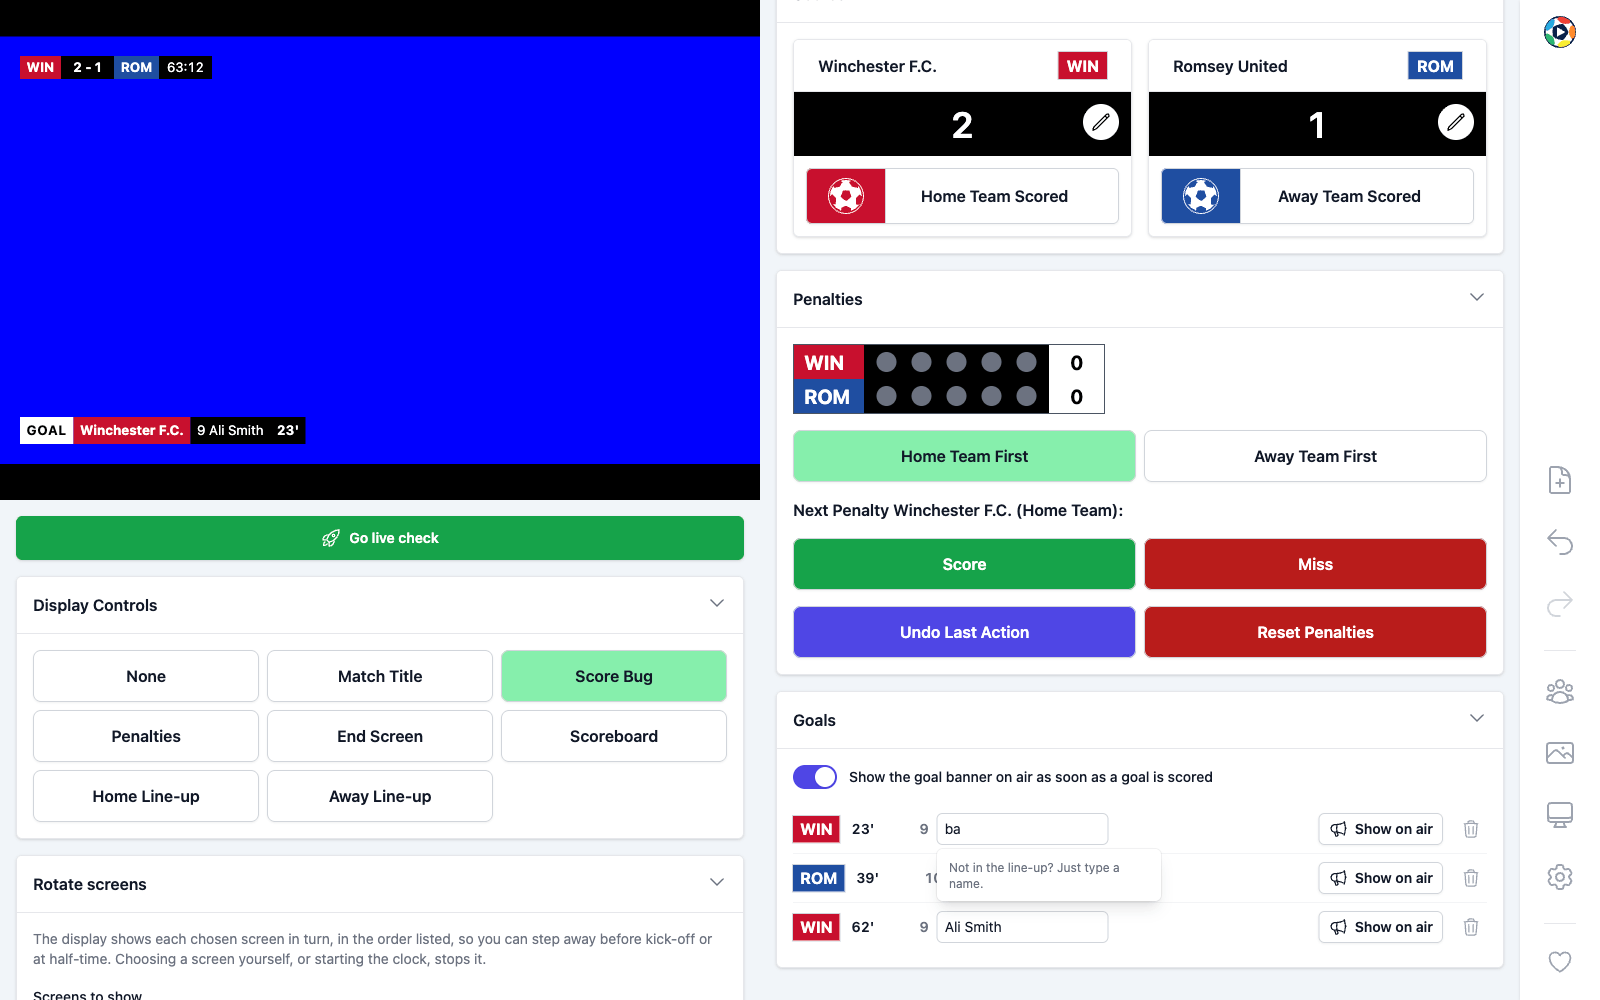
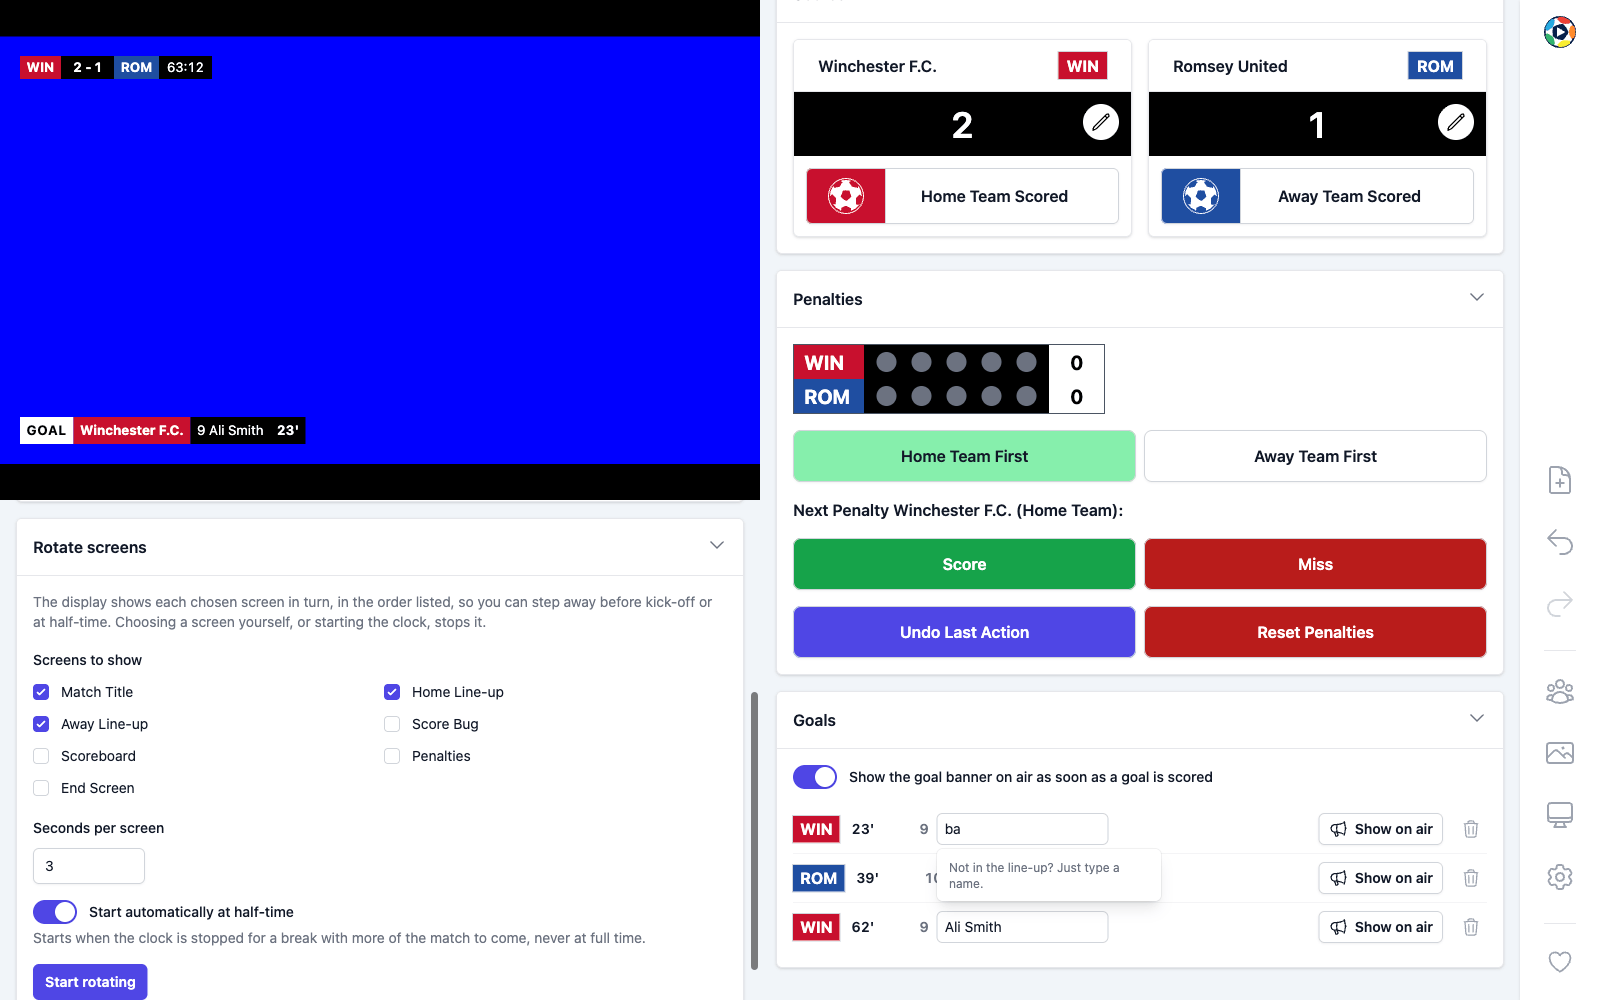
Website: point at the MagicZebraLtd repository, recapture the rotation panel
Every GitHub link on the site derives from REPO_OWNER, which now names
the organisation the repository moved to. The rotation panel screenshot
is recaptured with the whole panel in view.

Changed region(s): [[0.0, 0.496, 0.5, 1.0]]

diff --git a/website/src/lib/github.ts b/website/src/lib/github.ts
@@ -11,7 +11,7 @@
 // moving the repository (e.g. to the MagicZebraLtd organisation) is a
 // one-line change here.
 
-export const REPO_OWNER = "JosephMaynard";
+export const REPO_OWNER = "MagicZebraLtd";
 export const REPO_NAME = "playoverlay";
 export const REPO_URL = `https://github.com/${REPO_OWNER}/${REPO_NAME}`;
 export const RELEASES_PAGE_URL = `${REPO_URL}/releases`;

diff --git a/website/README.md b/website/README.md
@@ -1,6 +1,6 @@
 # PlayOverlay website
 
-The marketing and docs site for [PlayOverlay](https://github.com/JosephMaynard/playoverlay), built
+The marketing and docs site for [PlayOverlay](https://github.com/MagicZebraLtd/playoverlay), built
 with Next.js (App Router) and Tailwind CSS. This is a standalone project living in a `website/`
 subdirectory of the main PlayOverlay repo: it has its own `package.json`, its own dependencies,
 and no code shared with (or imported from) the Electron app at the repo root.
